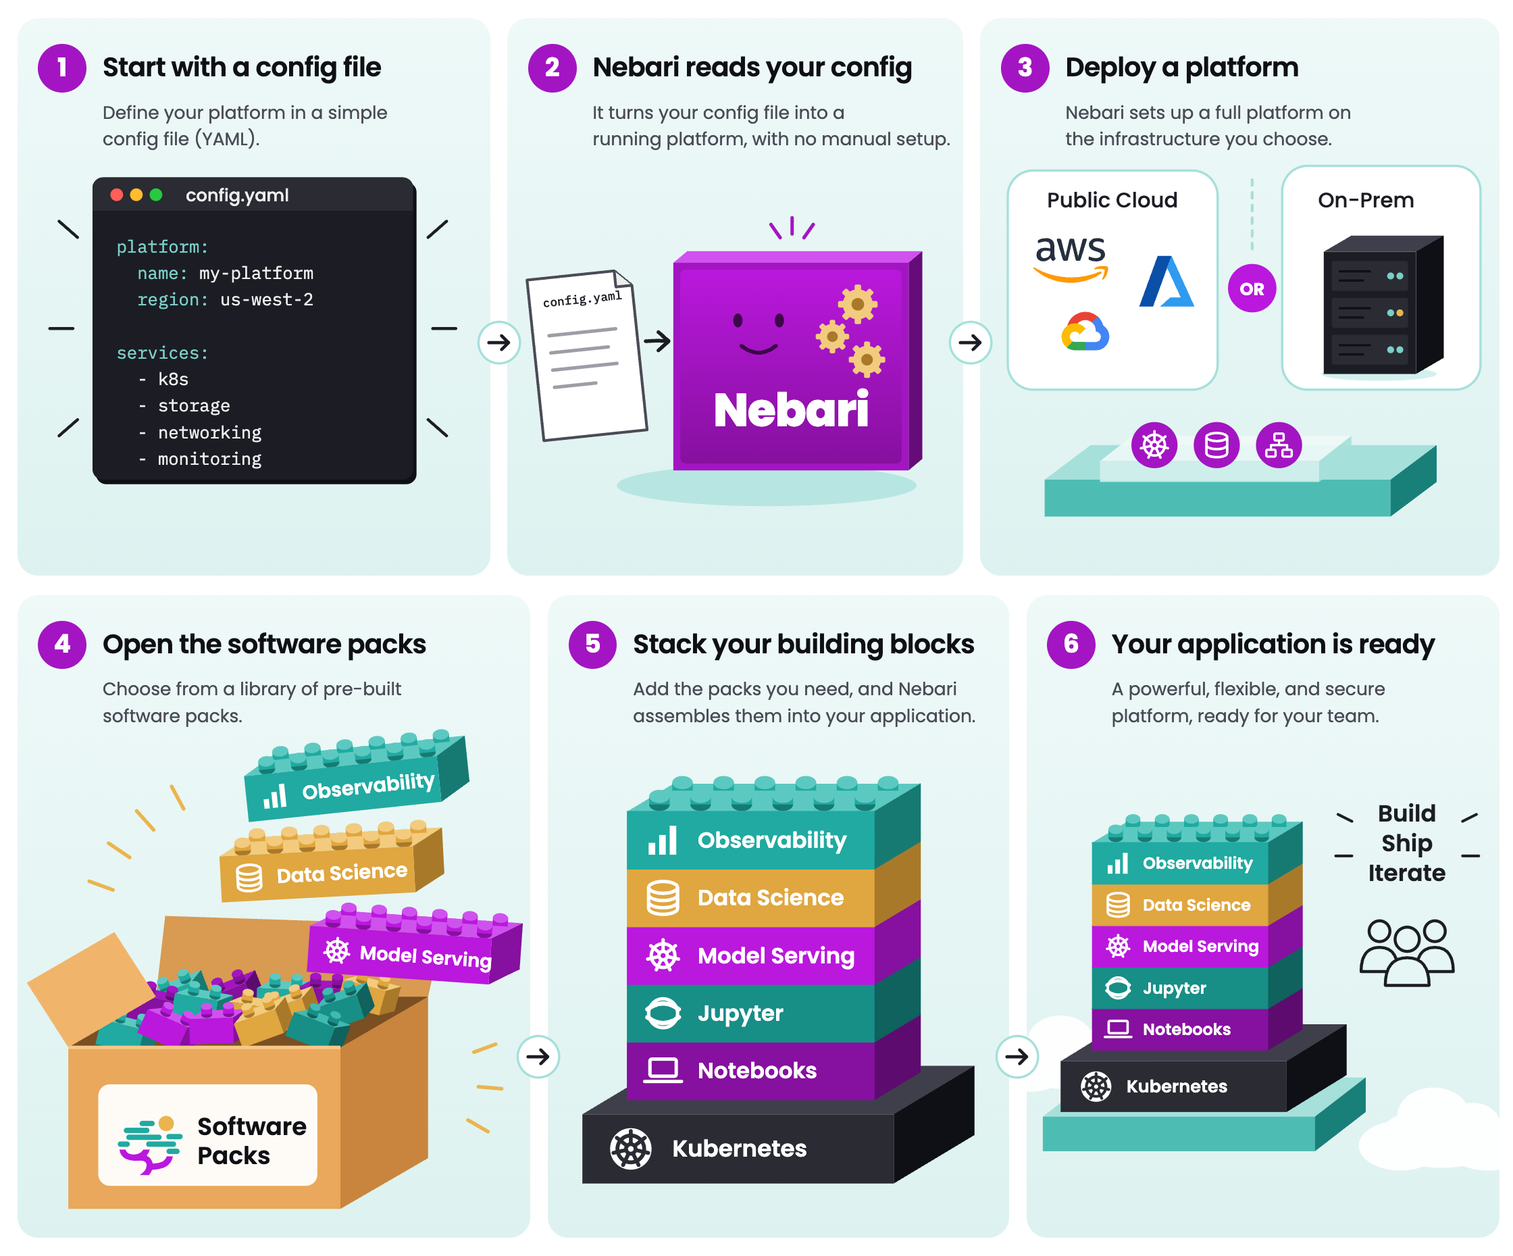
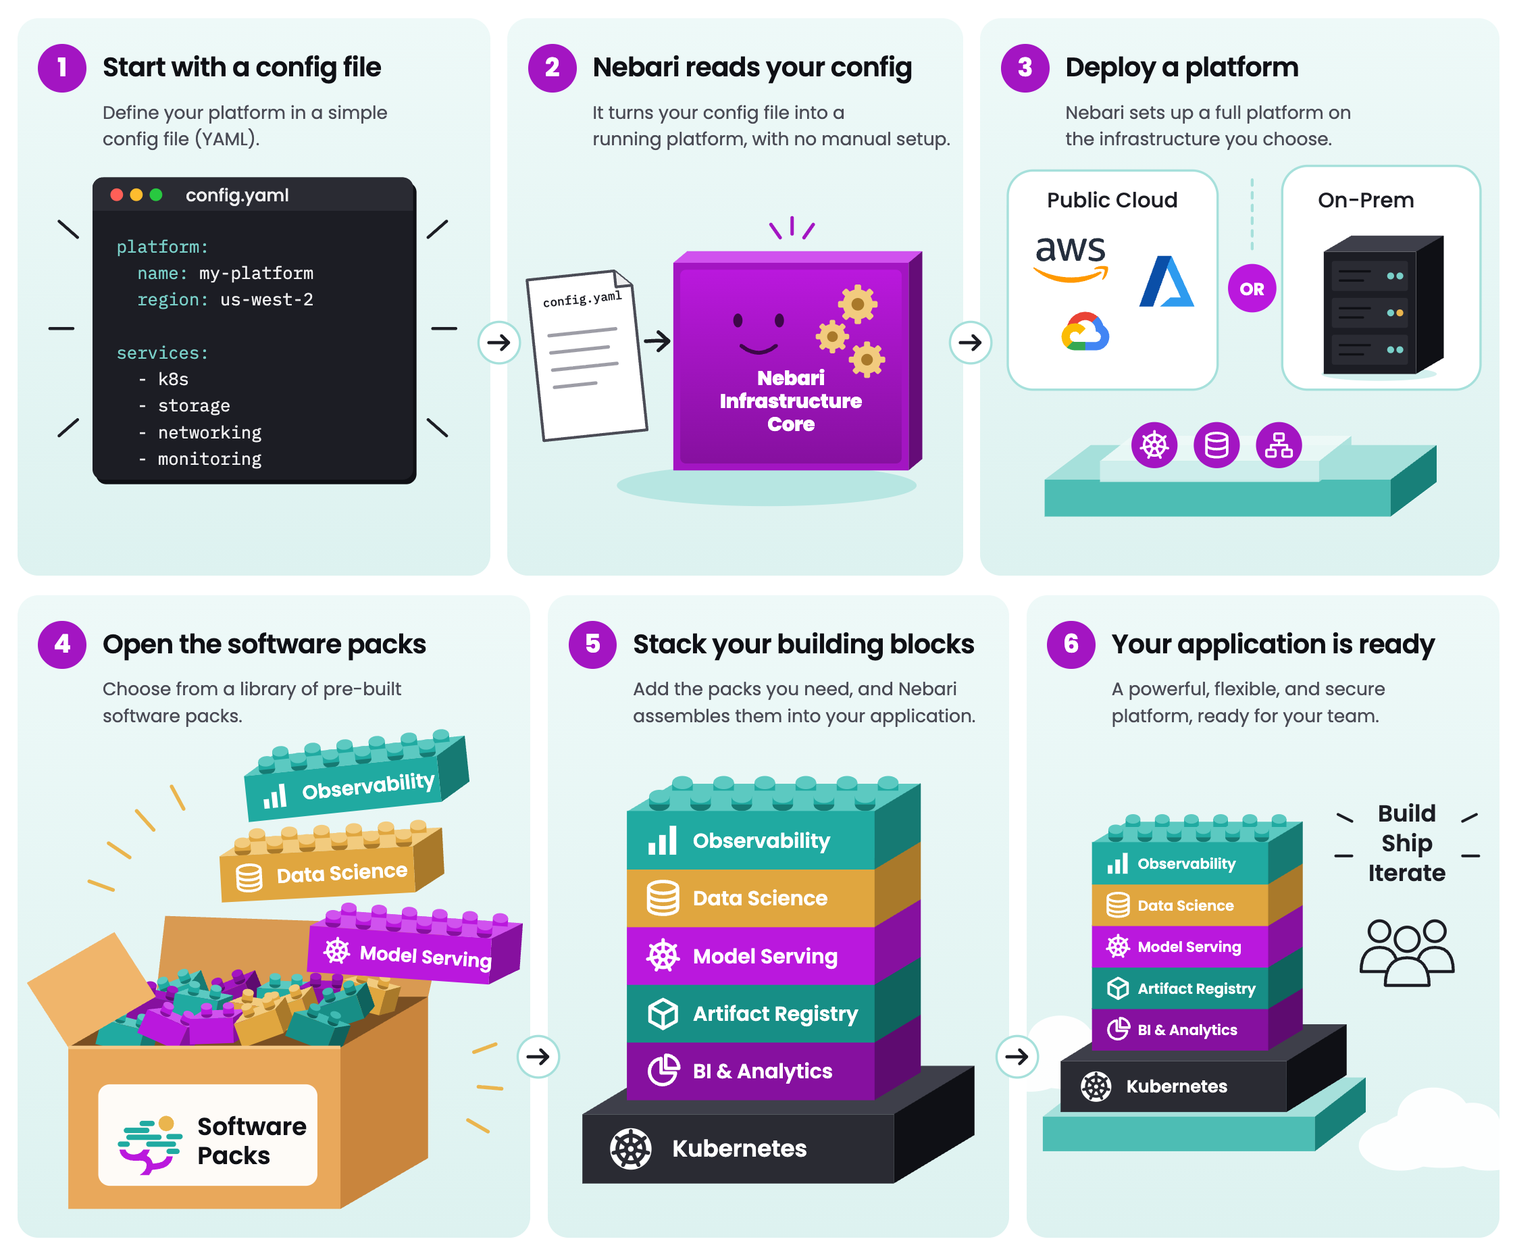
fix(home): name Nebari Infrastructure Core and update pack blocks in hero

diff --git a/docs/public/img/home/_sources/how-nebari-works-hero-dark.html b/docs/public/img/home/_sources/how-nebari-works-hero-dark.html
@@ -123,8 +123,8 @@ running platform, with no manual setup.</div>
         <div style="box-sizing: border-box; color: #1C1D24; font-family: 'IBM Plex Mono', system-ui, sans-serif; font-size: 10.5px; font-weight: 500; left: 30px; line-height: 18px; position: absolute; rotate: -6deg; top: 238px; transform-origin: 0% 0%; width: max-content">
           config.yaml
         </div>
-        <div style="box-sizing: border-box; color: #FFFFFF; display: flex; flex-wrap: wrap; font-family: 'Poppins', system-ui, sans-serif; font-size: 40px; font-weight: 800; justify-content: center; left: 150px; letter-spacing: -0.02em; line-height: 48px; position: absolute; text-align: center; top: 316px; width: 192px">
-          Nebari
+        <div style="box-sizing: border-box; color: #FFFFFF; display: flex; flex-wrap: wrap; font-family: 'Poppins', system-ui, sans-serif; font-size: 17px; font-weight: 800; justify-content: center; left: 171px; letter-spacing: -0.01em; line-height: 20px; position: absolute; text-align: center; top: 302px; width: 150px">
+          Nebari Infrastructure Core
         </div>
       </div>
       <div style="background-image: linear-gradient(180deg, #1F2029 0%, #17181F 100%); border-radius: 18px; box-shadow: #FFFFFF0F 0px 0px 0px 1px inset; box-sizing: border-box; height: 483px; left: 850px; overflow: clip; position: absolute; top: 16px; width: 450px">
@@ -607,25 +607,18 @@ software packs.</div>
             <polygon points="283.0,387.4 323.0,363.4 323.0,413.4 283.0,437.4" fill="#5E0B70" stroke="#5E0B70" stroke-width="0.8" stroke-linejoin="round" />
             <polygon points="69.0,387.4 109.0,363.4 323.0,363.4 283.0,387.4" fill="#A315C2" />
             <rect x="69.0" y="387.4" width="214" height="50" fill="#86109F" stroke="#86109F" stroke-width="0.8" />
-            <g transform="translate(100.0 412.4) scale(1.14)">
-              <rect x="-10" y="-9" width="20" height="13" rx="1.5" fill="none" stroke="#FFFFFF" stroke-width="2.6" stroke-linecap="round" stroke-linejoin="round" />
-              <path d="M-14 8 h28" fill="none" stroke="#FFFFFF" stroke-width="2.6" stroke-linecap="round" stroke-linejoin="round" />
-            </g>
-            <text font-weight="600" x="130.0" y="419.0" font-family="Poppins" font-size="19" fill="#FFFFFF">
-              Notebooks
+            <g transform="translate(100.0 412.4) scale(1.14)"><path d="M-1.5 -9.5 A10 10 0 1 0 9.5 1.5 H-1.5 Z" fill="none" stroke="#FFFFFF" stroke-width="2.6" stroke-linecap="round" stroke-linejoin="round" /><path d="M2 -12 A10 10 0 0 1 12 -2 H2 Z" fill="none" stroke="#FFFFFF" stroke-width="2.6" stroke-linecap="round" stroke-linejoin="round" /></g>
+            <text font-weight="600" x="126.0" y="419.0" font-family="Poppins" font-size="17.5" fill="#FFFFFF">
+              BI &amp; Analytics
             </text>
           </g>
           <g>
             <polygon points="283.0,337.4 323.0,313.4 323.0,363.4 283.0,387.4" fill="#0F625D" stroke="#0F625D" stroke-width="0.8" stroke-linejoin="round" />
             <polygon points="69.0,337.4 109.0,313.4 323.0,313.4 283.0,337.4" fill="#3FBAB2" />
             <rect x="69.0" y="337.4" width="214" height="50" fill="#178E86" stroke="#178E86" stroke-width="0.8" />
-            <g transform="translate(100.0 362.4) scale(1.14)">
-              <circle r="11" fill="none" stroke="#FFFFFF" stroke-width="2.6" stroke-linecap="round" stroke-linejoin="round" />
-              <path d="M-12 -3 q 12 -9 24 0" fill="none" stroke="#FFFFFF" stroke-width="3.4" stroke-linecap="round" stroke-linejoin="round" />
-              <path d="M-12 3 q 12 9 24 0" fill="none" stroke="#FFFFFF" stroke-width="3.4" stroke-linecap="round" stroke-linejoin="round" />
-            </g>
-            <text font-weight="600" x="130.0" y="369.0" font-family="Poppins" font-size="19" fill="#FFFFFF">
-              Jupyter
+            <g transform="translate(100.0 362.4) scale(1.14)"><path d="M-10 -5 L0 -10.5 L10 -5 L10 6 L0 11.5 L-10 6 Z" fill="none" stroke="#FFFFFF" stroke-width="2.6" stroke-linecap="round" stroke-linejoin="round" /><path d="M-10 -5 L0 0.5 L10 -5" fill="none" stroke="#FFFFFF" stroke-width="2.6" stroke-linecap="round" stroke-linejoin="round" /><path d="M0 0.5 V11.5" fill="none" stroke="#FFFFFF" stroke-width="2.6" stroke-linecap="round" stroke-linejoin="round" /></g>
+            <text font-weight="600" x="126.0" y="369.0" font-family="Poppins" font-size="17.5" fill="#FFFFFF">
+              Artifact Registry
             </text>
           </g>
           <g>
@@ -643,7 +636,7 @@ software packs.</div>
               <line x1="-3.41" y1="0.77" x2="-11.69" y2="2.67" stroke="#FFFFFF" stroke-width="2.6" stroke-linecap="round" stroke-linejoin="round" />
               <line x1="-2.73" y1="-2.18" x2="-9.38" y2="-7.48" stroke="#FFFFFF" stroke-width="2.6" stroke-linecap="round" stroke-linejoin="round" />
             </g>
-            <text font-weight="600" x="130.0" y="319.0" font-family="Poppins" font-size="19" fill="#FFFFFF">
+            <text font-weight="600" x="126.0" y="319.0" font-family="Poppins" font-size="17.5" fill="#FFFFFF">
               Model Serving
             </text>
           </g>
@@ -657,7 +650,7 @@ software packs.</div>
               <path d="M-11 -2.5 a11 4.5 0 0 0 22 0" fill="none" stroke="#FFFFFF" stroke-width="2.6" stroke-linecap="round" stroke-linejoin="round" />
               <path d="M-11 3 a11 4.5 0 0 0 22 0" fill="none" stroke="#FFFFFF" stroke-width="2.6" stroke-linecap="round" stroke-linejoin="round" />
             </g>
-            <text font-weight="600" x="130.0" y="269.0" font-family="Poppins" font-size="19" fill="#FFFFFF">
+            <text font-weight="600" x="126.0" y="269.0" font-family="Poppins" font-size="17.5" fill="#FFFFFF">
               Data Science
             </text>
           </g>
@@ -700,7 +693,7 @@ software packs.</div>
               <rect x="-3" y="-4" width="5" height="15" fill="#FFFFFF" />
               <rect x="5" y="-11" width="5" height="22" fill="#FFFFFF" />
             </g>
-            <text font-weight="600" x="130.0" y="219.1" font-family="Poppins" font-size="19" fill="#FFFFFF">
+            <text font-weight="600" x="126.0" y="219.1" font-family="Poppins" font-size="17.5" fill="#FFFFFF">
               Observability
             </text>
           </g>
@@ -776,25 +769,18 @@ platform, ready for your team.</div>
             <polygon points="185.6,358.4 215.6,340.4 215.6,376.4 185.6,394.4" fill="#5E0B70" stroke="#5E0B70" stroke-width="0.8" stroke-linejoin="round" />
             <polygon points="33.6,358.4 63.6,340.4 215.6,340.4 185.6,358.4" fill="#A315C2" />
             <rect x="33.6" y="358.4" width="152" height="36" fill="#86109F" stroke="#86109F" stroke-width="0.8" />
-            <g transform="translate(55.9 376.4) scale(0.82)">
-              <rect x="-10" y="-9" width="20" height="13" rx="1.5" fill="none" stroke="#FFFFFF" stroke-width="2.6" stroke-linecap="round" stroke-linejoin="round" />
-              <path d="M-14 8 h28" fill="none" stroke="#FFFFFF" stroke-width="2.6" stroke-linecap="round" stroke-linejoin="round" />
-            </g>
-            <text font-weight="600" x="77.5" y="381.3" font-family="Poppins" font-size="14" fill="#FFFFFF">
-              Notebooks
+            <g transform="translate(55.9 376.4) scale(0.82)"><path d="M-1.5 -9.5 A10 10 0 1 0 9.5 1.5 H-1.5 Z" fill="none" stroke="#FFFFFF" stroke-width="2.6" stroke-linecap="round" stroke-linejoin="round" /><path d="M2 -12 A10 10 0 0 1 12 -2 H2 Z" fill="none" stroke="#FFFFFF" stroke-width="2.6" stroke-linecap="round" stroke-linejoin="round" /></g>
+            <text font-weight="600" x="73.0" y="381.3" font-family="Poppins" font-size="12.5" fill="#FFFFFF">
+              BI &amp; Analytics
             </text>
           </g>
           <g>
             <polygon points="185.6,322.4 215.6,304.4 215.6,340.4 185.6,358.4" fill="#0F625D" stroke="#0F625D" stroke-width="0.8" stroke-linejoin="round" />
             <polygon points="33.6,322.4 63.6,304.4 215.6,304.4 185.6,322.4" fill="#3FBAB2" />
             <rect x="33.6" y="322.4" width="152" height="36" fill="#178E86" stroke="#178E86" stroke-width="0.8" />
-            <g transform="translate(55.9 340.4) scale(0.82)">
-              <circle r="11" fill="none" stroke="#FFFFFF" stroke-width="2.6" stroke-linecap="round" stroke-linejoin="round" />
-              <path d="M-12 -3 q 12 -9 24 0" fill="none" stroke="#FFFFFF" stroke-width="3.4" stroke-linecap="round" stroke-linejoin="round" />
-              <path d="M-12 3 q 12 9 24 0" fill="none" stroke="#FFFFFF" stroke-width="3.4" stroke-linecap="round" stroke-linejoin="round" />
-            </g>
-            <text font-weight="600" x="77.5" y="345.3" font-family="Poppins" font-size="14" fill="#FFFFFF">
-              Jupyter
+            <g transform="translate(55.9 340.4) scale(0.82)"><path d="M-10 -5 L0 -10.5 L10 -5 L10 6 L0 11.5 L-10 6 Z" fill="none" stroke="#FFFFFF" stroke-width="2.6" stroke-linecap="round" stroke-linejoin="round" /><path d="M-10 -5 L0 0.5 L10 -5" fill="none" stroke="#FFFFFF" stroke-width="2.6" stroke-linecap="round" stroke-linejoin="round" /><path d="M0 0.5 V11.5" fill="none" stroke="#FFFFFF" stroke-width="2.6" stroke-linecap="round" stroke-linejoin="round" /></g>
+            <text font-weight="600" x="73.0" y="345.3" font-family="Poppins" font-size="12.5" fill="#FFFFFF">
+              Artifact Registry
             </text>
           </g>
           <g>
@@ -812,7 +798,7 @@ platform, ready for your team.</div>
               <line x1="-3.41" y1="0.77" x2="-11.69" y2="2.67" stroke="#FFFFFF" stroke-width="2.6" stroke-linecap="round" stroke-linejoin="round" />
               <line x1="-2.73" y1="-2.18" x2="-9.38" y2="-7.48" stroke="#FFFFFF" stroke-width="2.6" stroke-linecap="round" stroke-linejoin="round" />
             </g>
-            <text font-weight="600" x="77.5" y="309.3" font-family="Poppins" font-size="14" fill="#FFFFFF">
+            <text font-weight="600" x="73.0" y="309.3" font-family="Poppins" font-size="12.5" fill="#FFFFFF">
               Model Serving
             </text>
           </g>
@@ -826,7 +812,7 @@ platform, ready for your team.</div>
               <path d="M-11 -2.5 a11 4.5 0 0 0 22 0" fill="none" stroke="#FFFFFF" stroke-width="2.6" stroke-linecap="round" stroke-linejoin="round" />
               <path d="M-11 3 a11 4.5 0 0 0 22 0" fill="none" stroke="#FFFFFF" stroke-width="2.6" stroke-linecap="round" stroke-linejoin="round" />
             </g>
-            <text font-weight="600" x="77.5" y="273.3" font-family="Poppins" font-size="14" fill="#FFFFFF">
+            <text font-weight="600" x="73.0" y="273.3" font-family="Poppins" font-size="12.5" fill="#FFFFFF">
               Data Science
             </text>
           </g>
@@ -869,7 +855,7 @@ platform, ready for your team.</div>
               <rect x="-3" y="-4" width="5" height="15" fill="#FFFFFF" />
               <rect x="5" y="-11" width="5" height="22" fill="#FFFFFF" />
             </g>
-            <text font-weight="600" x="77.5" y="237.3" font-family="Poppins" font-size="14" fill="#FFFFFF">
+            <text font-weight="600" x="73.0" y="237.3" font-family="Poppins" font-size="12.5" fill="#FFFFFF">
               Observability
             </text>
           </g>

diff --git a/docs/public/img/home/_sources/how-nebari-works-hero-light.html b/docs/public/img/home/_sources/how-nebari-works-hero-light.html
@@ -123,8 +123,8 @@ running platform, with no manual setup.</div>
         <div style="box-sizing: border-box; color: #1C1D24; font-family: 'IBM Plex Mono', system-ui, sans-serif; font-size: 10.5px; font-weight: 500; left: 30px; line-height: 18px; position: absolute; rotate: -6deg; top: 238px; transform-origin: 0% 0%; width: max-content">
           config.yaml
         </div>
-        <div style="box-sizing: border-box; color: #FFFFFF; display: flex; flex-wrap: wrap; font-family: 'Poppins', system-ui, sans-serif; font-size: 40px; font-weight: 800; justify-content: center; left: 150px; letter-spacing: -0.02em; line-height: 48px; position: absolute; text-align: center; top: 316px; width: 192px">
-          Nebari
+        <div style="box-sizing: border-box; color: #FFFFFF; display: flex; flex-wrap: wrap; font-family: 'Poppins', system-ui, sans-serif; font-size: 17px; font-weight: 800; justify-content: center; left: 171px; letter-spacing: -0.01em; line-height: 20px; position: absolute; text-align: center; top: 302px; width: 150px">
+          Nebari Infrastructure Core
         </div>
       </div>
       <div style="background-image: linear-gradient(180deg, #EEF9F8 0%, #DDF2F0 100%); border-radius: 18px; box-sizing: border-box; height: 483px; left: 850px; overflow: clip; position: absolute; top: 16px; width: 450px">
@@ -607,25 +607,18 @@ software packs.</div>
             <polygon points="283.0,387.4 323.0,363.4 323.0,413.4 283.0,437.4" fill="#5E0B70" stroke="#5E0B70" stroke-width="0.8" stroke-linejoin="round" />
             <polygon points="69.0,387.4 109.0,363.4 323.0,363.4 283.0,387.4" fill="#A315C2" />
             <rect x="69.0" y="387.4" width="214" height="50" fill="#86109F" stroke="#86109F" stroke-width="0.8" />
-            <g transform="translate(100.0 412.4) scale(1.14)">
-              <rect x="-10" y="-9" width="20" height="13" rx="1.5" fill="none" stroke="#FFFFFF" stroke-width="2.6" stroke-linecap="round" stroke-linejoin="round" />
-              <path d="M-14 8 h28" fill="none" stroke="#FFFFFF" stroke-width="2.6" stroke-linecap="round" stroke-linejoin="round" />
-            </g>
-            <text font-weight="600" x="130.0" y="419.0" font-family="Poppins" font-size="19" fill="#FFFFFF">
-              Notebooks
+            <g transform="translate(100.0 412.4) scale(1.14)"><path d="M-1.5 -9.5 A10 10 0 1 0 9.5 1.5 H-1.5 Z" fill="none" stroke="#FFFFFF" stroke-width="2.6" stroke-linecap="round" stroke-linejoin="round" /><path d="M2 -12 A10 10 0 0 1 12 -2 H2 Z" fill="none" stroke="#FFFFFF" stroke-width="2.6" stroke-linecap="round" stroke-linejoin="round" /></g>
+            <text font-weight="600" x="126.0" y="419.0" font-family="Poppins" font-size="17.5" fill="#FFFFFF">
+              BI &amp; Analytics
             </text>
           </g>
           <g>
             <polygon points="283.0,337.4 323.0,313.4 323.0,363.4 283.0,387.4" fill="#0F625D" stroke="#0F625D" stroke-width="0.8" stroke-linejoin="round" />
             <polygon points="69.0,337.4 109.0,313.4 323.0,313.4 283.0,337.4" fill="#3FBAB2" />
             <rect x="69.0" y="337.4" width="214" height="50" fill="#178E86" stroke="#178E86" stroke-width="0.8" />
-            <g transform="translate(100.0 362.4) scale(1.14)">
-              <circle r="11" fill="none" stroke="#FFFFFF" stroke-width="2.6" stroke-linecap="round" stroke-linejoin="round" />
-              <path d="M-12 -3 q 12 -9 24 0" fill="none" stroke="#FFFFFF" stroke-width="3.4" stroke-linecap="round" stroke-linejoin="round" />
-              <path d="M-12 3 q 12 9 24 0" fill="none" stroke="#FFFFFF" stroke-width="3.4" stroke-linecap="round" stroke-linejoin="round" />
-            </g>
-            <text font-weight="600" x="130.0" y="369.0" font-family="Poppins" font-size="19" fill="#FFFFFF">
-              Jupyter
+            <g transform="translate(100.0 362.4) scale(1.14)"><path d="M-10 -5 L0 -10.5 L10 -5 L10 6 L0 11.5 L-10 6 Z" fill="none" stroke="#FFFFFF" stroke-width="2.6" stroke-linecap="round" stroke-linejoin="round" /><path d="M-10 -5 L0 0.5 L10 -5" fill="none" stroke="#FFFFFF" stroke-width="2.6" stroke-linecap="round" stroke-linejoin="round" /><path d="M0 0.5 V11.5" fill="none" stroke="#FFFFFF" stroke-width="2.6" stroke-linecap="round" stroke-linejoin="round" /></g>
+            <text font-weight="600" x="126.0" y="369.0" font-family="Poppins" font-size="17.5" fill="#FFFFFF">
+              Artifact Registry
             </text>
           </g>
           <g>
@@ -643,7 +636,7 @@ software packs.</div>
               <line x1="-3.41" y1="0.77" x2="-11.69" y2="2.67" stroke="#FFFFFF" stroke-width="2.6" stroke-linecap="round" stroke-linejoin="round" />
               <line x1="-2.73" y1="-2.18" x2="-9.38" y2="-7.48" stroke="#FFFFFF" stroke-width="2.6" stroke-linecap="round" stroke-linejoin="round" />
             </g>
-            <text font-weight="600" x="130.0" y="319.0" font-family="Poppins" font-size="19" fill="#FFFFFF">
+            <text font-weight="600" x="126.0" y="319.0" font-family="Poppins" font-size="17.5" fill="#FFFFFF">
               Model Serving
             </text>
           </g>
@@ -657,7 +650,7 @@ software packs.</div>
               <path d="M-11 -2.5 a11 4.5 0 0 0 22 0" fill="none" stroke="#FFFFFF" stroke-width="2.6" stroke-linecap="round" stroke-linejoin="round" />
               <path d="M-11 3 a11 4.5 0 0 0 22 0" fill="none" stroke="#FFFFFF" stroke-width="2.6" stroke-linecap="round" stroke-linejoin="round" />
             </g>
-            <text font-weight="600" x="130.0" y="269.0" font-family="Poppins" font-size="19" fill="#FFFFFF">
+            <text font-weight="600" x="126.0" y="269.0" font-family="Poppins" font-size="17.5" fill="#FFFFFF">
               Data Science
             </text>
           </g>
@@ -700,7 +693,7 @@ software packs.</div>
               <rect x="-3" y="-4" width="5" height="15" fill="#FFFFFF" />
               <rect x="5" y="-11" width="5" height="22" fill="#FFFFFF" />
             </g>
-            <text font-weight="600" x="130.0" y="219.1" font-family="Poppins" font-size="19" fill="#FFFFFF">
+            <text font-weight="600" x="126.0" y="219.1" font-family="Poppins" font-size="17.5" fill="#FFFFFF">
               Observability
             </text>
           </g>
@@ -790,25 +783,18 @@ platform, ready for your team.</div>
             <polygon points="185.6,358.4 215.6,340.4 215.6,376.4 185.6,394.4" fill="#5E0B70" stroke="#5E0B70" stroke-width="0.8" stroke-linejoin="round" />
             <polygon points="33.6,358.4 63.6,340.4 215.6,340.4 185.6,358.4" fill="#A315C2" />
             <rect x="33.6" y="358.4" width="152" height="36" fill="#86109F" stroke="#86109F" stroke-width="0.8" />
-            <g transform="translate(55.9 376.4) scale(0.82)">
-              <rect x="-10" y="-9" width="20" height="13" rx="1.5" fill="none" stroke="#FFFFFF" stroke-width="2.6" stroke-linecap="round" stroke-linejoin="round" />
-              <path d="M-14 8 h28" fill="none" stroke="#FFFFFF" stroke-width="2.6" stroke-linecap="round" stroke-linejoin="round" />
-            </g>
-            <text font-weight="600" x="77.5" y="381.3" font-family="Poppins" font-size="14" fill="#FFFFFF">
-              Notebooks
+            <g transform="translate(55.9 376.4) scale(0.82)"><path d="M-1.5 -9.5 A10 10 0 1 0 9.5 1.5 H-1.5 Z" fill="none" stroke="#FFFFFF" stroke-width="2.6" stroke-linecap="round" stroke-linejoin="round" /><path d="M2 -12 A10 10 0 0 1 12 -2 H2 Z" fill="none" stroke="#FFFFFF" stroke-width="2.6" stroke-linecap="round" stroke-linejoin="round" /></g>
+            <text font-weight="600" x="73.0" y="381.3" font-family="Poppins" font-size="12.5" fill="#FFFFFF">
+              BI &amp; Analytics
             </text>
           </g>
           <g>
             <polygon points="185.6,322.4 215.6,304.4 215.6,340.4 185.6,358.4" fill="#0F625D" stroke="#0F625D" stroke-width="0.8" stroke-linejoin="round" />
             <polygon points="33.6,322.4 63.6,304.4 215.6,304.4 185.6,322.4" fill="#3FBAB2" />
             <rect x="33.6" y="322.4" width="152" height="36" fill="#178E86" stroke="#178E86" stroke-width="0.8" />
-            <g transform="translate(55.9 340.4) scale(0.82)">
-              <circle r="11" fill="none" stroke="#FFFFFF" stroke-width="2.6" stroke-linecap="round" stroke-linejoin="round" />
-              <path d="M-12 -3 q 12 -9 24 0" fill="none" stroke="#FFFFFF" stroke-width="3.4" stroke-linecap="round" stroke-linejoin="round" />
-              <path d="M-12 3 q 12 9 24 0" fill="none" stroke="#FFFFFF" stroke-width="3.4" stroke-linecap="round" stroke-linejoin="round" />
-            </g>
-            <text font-weight="600" x="77.5" y="345.3" font-family="Poppins" font-size="14" fill="#FFFFFF">
-              Jupyter
+            <g transform="translate(55.9 340.4) scale(0.82)"><path d="M-10 -5 L0 -10.5 L10 -5 L10 6 L0 11.5 L-10 6 Z" fill="none" stroke="#FFFFFF" stroke-width="2.6" stroke-linecap="round" stroke-linejoin="round" /><path d="M-10 -5 L0 0.5 L10 -5" fill="none" stroke="#FFFFFF" stroke-width="2.6" stroke-linecap="round" stroke-linejoin="round" /><path d="M0 0.5 V11.5" fill="none" stroke="#FFFFFF" stroke-width="2.6" stroke-linecap="round" stroke-linejoin="round" /></g>
+            <text font-weight="600" x="73.0" y="345.3" font-family="Poppins" font-size="12.5" fill="#FFFFFF">
+              Artifact Registry
             </text>
           </g>
           <g>
@@ -826,7 +812,7 @@ platform, ready for your team.</div>
               <line x1="-3.41" y1="0.77" x2="-11.69" y2="2.67" stroke="#FFFFFF" stroke-width="2.6" stroke-linecap="round" stroke-linejoin="round" />
               <line x1="-2.73" y1="-2.18" x2="-9.38" y2="-7.48" stroke="#FFFFFF" stroke-width="2.6" stroke-linecap="round" stroke-linejoin="round" />
             </g>
-            <text font-weight="600" x="77.5" y="309.3" font-family="Poppins" font-size="14" fill="#FFFFFF">
+            <text font-weight="600" x="73.0" y="309.3" font-family="Poppins" font-size="12.5" fill="#FFFFFF">
               Model Serving
             </text>
           </g>
@@ -840,7 +826,7 @@ platform, ready for your team.</div>
               <path d="M-11 -2.5 a11 4.5 0 0 0 22 0" fill="none" stroke="#FFFFFF" stroke-width="2.6" stroke-linecap="round" stroke-linejoin="round" />
               <path d="M-11 3 a11 4.5 0 0 0 22 0" fill="none" stroke="#FFFFFF" stroke-width="2.6" stroke-linecap="round" stroke-linejoin="round" />
             </g>
-            <text font-weight="600" x="77.5" y="273.3" font-family="Poppins" font-size="14" fill="#FFFFFF">
+            <text font-weight="600" x="73.0" y="273.3" font-family="Poppins" font-size="12.5" fill="#FFFFFF">
               Data Science
             </text>
           </g>
@@ -883,7 +869,7 @@ platform, ready for your team.</div>
               <rect x="-3" y="-4" width="5" height="15" fill="#FFFFFF" />
               <rect x="5" y="-11" width="5" height="22" fill="#FFFFFF" />
             </g>
-            <text font-weight="600" x="77.5" y="237.3" font-family="Poppins" font-size="14" fill="#FFFFFF">
+            <text font-weight="600" x="73.0" y="237.3" font-family="Poppins" font-size="12.5" fill="#FFFFFF">
               Observability
             </text>
           </g>
